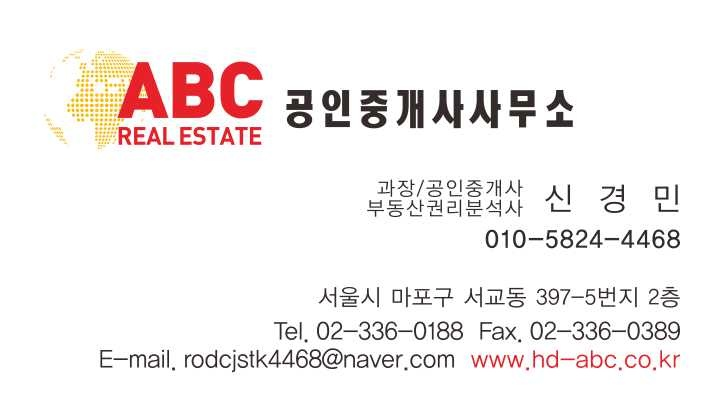
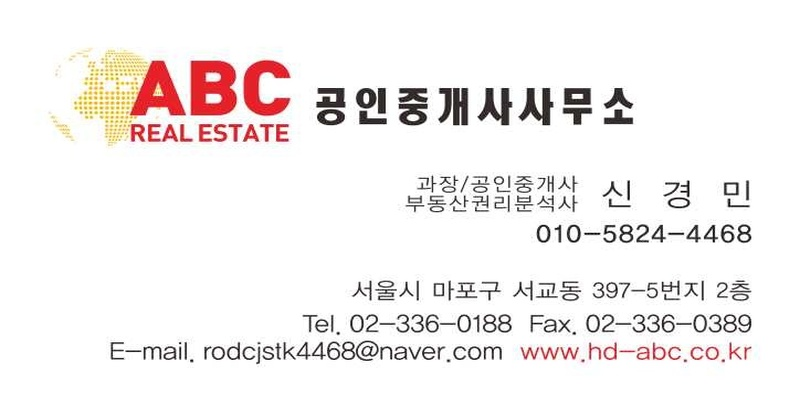
카카오 공유 이미지 잘림 수정 — 1.jpg 리사이즈(800x400) + imageWidth/Height 추가

diff --git a/index.html b/index.html
@@ -5549,6 +5549,8 @@ function shareKakao(){
       title:title,
       description:desc||'상가·사무실·건물 임대매매 전문',
       imageUrl:'https://ehdtn007-ops.github.io/first/1.jpg',
+      imageWidth:800,
+      imageHeight:400,
       link:{webUrl:url,mobileWebUrl:url}
     },
     buttons:[{title:'매물 보기',link:{webUrl:url,mobileWebUrl:url}}]
